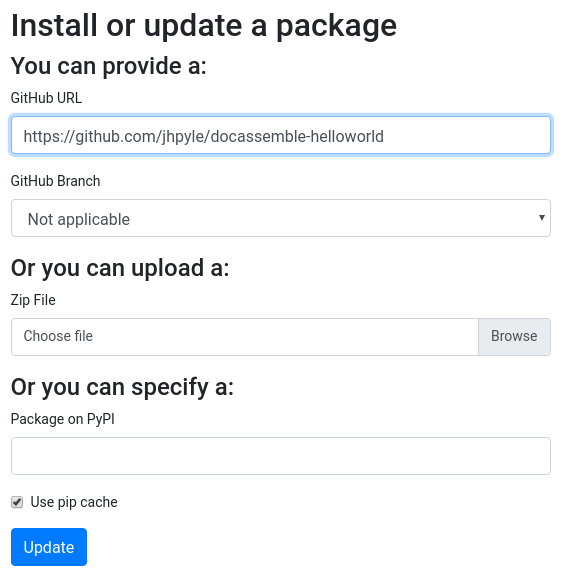
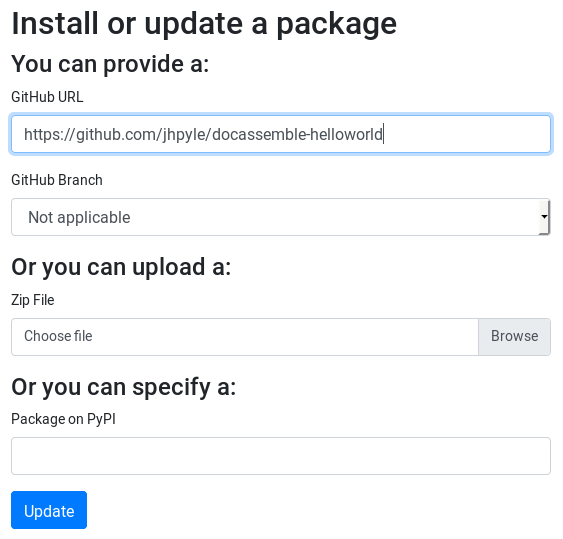
changelog; pip cache

diff --git a/_docs/recipes.md b/_docs/recipes.md
@@ -413,6 +413,30 @@ template and then you use the DOCX output as the input for another assembly.
 
 {% include demo-side-by-side.html demo="twostage" %}
 
+# <a name="docxproperties"></a>Altering metadata of generated DOCX files
+
+This example demonstrates using the [docx] package to modify the
+[core document properties] of a generated DOCX file.
+
+{% include demo-side-by-side.html demo="docxproperties" %}
+
+Note that this interview uses [Python] code in a [`code`] block that
+should ideally go into a module file.  The `docx` variable is an
+object from a third party module and is not able to be [pickled].  The
+code works this way in this interview because the [`code`] block
+ensures that the variable `user_name` is defined before the `docx`
+variable is created, and it deletes the `docx` variable with `del
+docx` before the [`code`] block finishes.  If the variable `user_name`
+was undefined, **docassemble** would try to save the variable `docx`
+in the interview answers before asking about `user_name`, and this
+would result in a pickling error.  If the `docx` variable only existed
+inside of a function in a module, there would be no problem with
+[pickling].
+
+[core document properties]: https://python-docx.readthedocs.io/en/latest/dev/analysis/features/coreprops.html
+[pickled]: https://docs.python.org/3/library/pickle.html
+[pickling]: https://docs.python.org/3/library/pickle.html
+[docx]: https://python-docx.readthedocs.io/
 [`docx template file`]: {{ site.baseurl }}/docs/documents.html#docx template file
 [YAML]: https://en.wikipedia.org/wiki/YAML
 [`signature-diversion.yml`]: https://github.com/jhpyle/docassemble/blob/master/docassemble_demo/docassemble/demo/data/questions/signature-diversion.yml
@@ -421,3 +445,5 @@ template and then you use the DOCX output as the input for another assembly.
 [`disable others`]: {{ site.baseurl }}/docs/fields.html#disable others
 [`object` datatype]: {{ site.baseurl }}/docs/fields.html#object
 [`interview_url()`]: {{ site.baseurl }}/docs/functions.html#interview_url
+[`code`]: {{ site.baseurl }}/docs/code.html
+[Python]: https://en.wikipedia.org/wiki/Python_%28programming_language%29

diff --git a/_docs/admin.md b/_docs/admin.md
@@ -120,14 +120,6 @@ and then use [GitHub] to obtain a special URL for the repository that
 embeds an "OAuth" authentication code.  These URLs can be used in
 the "Github URL" field of "Package Management."
 
-There is a checkbox labeled "Use pip cache."  It is checked by
-default.  You might it helpful to uncheck this checkbox if you are
-installing and re-installing the same package from [PyPI] repeatedly
-over a short period of time.  If the checkbox is unchecked, then `pip`
-runs with the `--no-cache-dir` option, which means that `pip` will
-always go onto the internet to retrieve a new version of a package
-instead of looking in its cache.
-
 ### <a name="update"></a>Update or uninstall an existing package
 
 In this part of the "Package Management" screen, you can see a list of

diff --git a/_docs/functions.md b/_docs/functions.md
@@ -6301,7 +6301,7 @@ $(document).on('daPageLoad', function(){
 [Redis]: https://redis.io/
 [in-memory database]: https://en.wikipedia.org/wiki/In-memory_database
 [object]: {{ site.baseurl }}/docs/objects.html
-[pickled]: https://docs.python.org/2/library/pickle.html
+[pickled]: https://docs.python.org/3/library/pickle.html
 [`db`]: {{ site.baseurl }}/docs/config.html#db
 [PostgreSQL]: http://www.postgresql.org/
 [`checkin interval`]: {{ site.baseurl }}/docs/config.html#checkin interval

diff --git a/_docs/changelog.md b/_docs/changelog.md
@@ -4,6 +4,16 @@ title: Change Log
 short_title: Change Log
 ---
 
+## [0.4.61](https://github.com/jhpyle/docassemble/releases/tag/v0.4.61) - 2019-07-10
+
+### Added
+- The `set_status()` and `get_status()` functions.
+
+### Changed
+- Disabled `pip` cache.
+- Restored pre-0.4.55 behavior allowing Mako in multiple choice
+  values.
+
 ## [0.4.60](https://github.com/jhpyle/docassemble/releases/tag/v0.4.60) - 2019-07-09
 
 ### Changed
